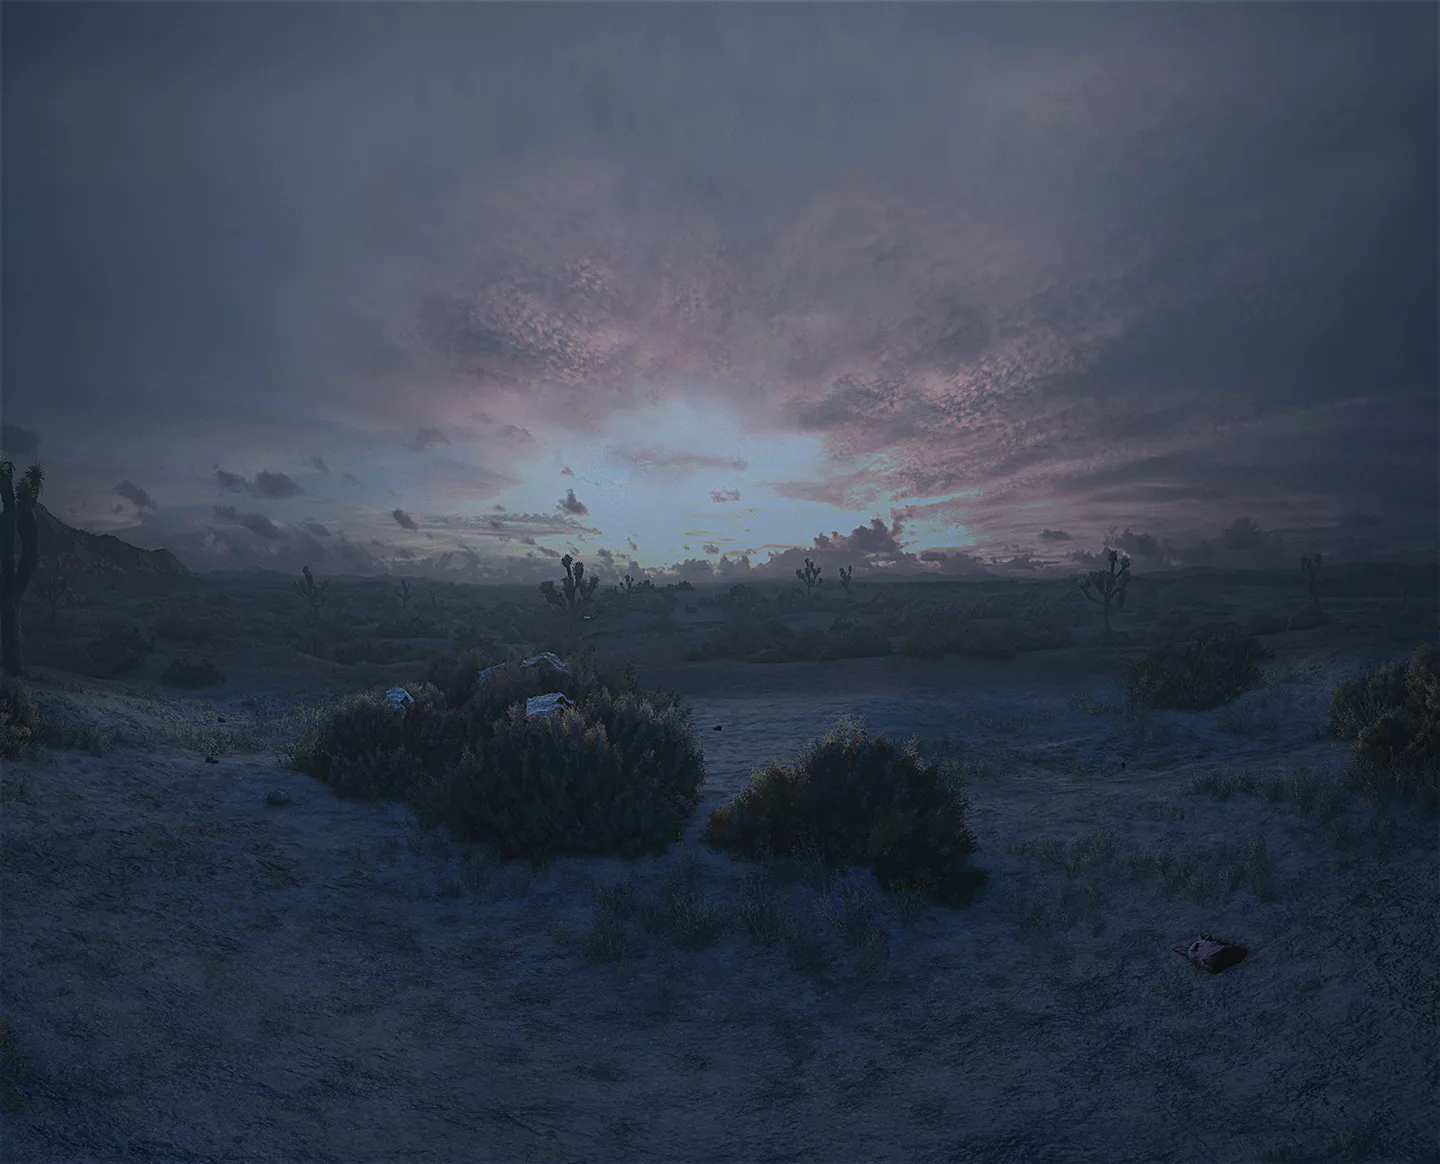
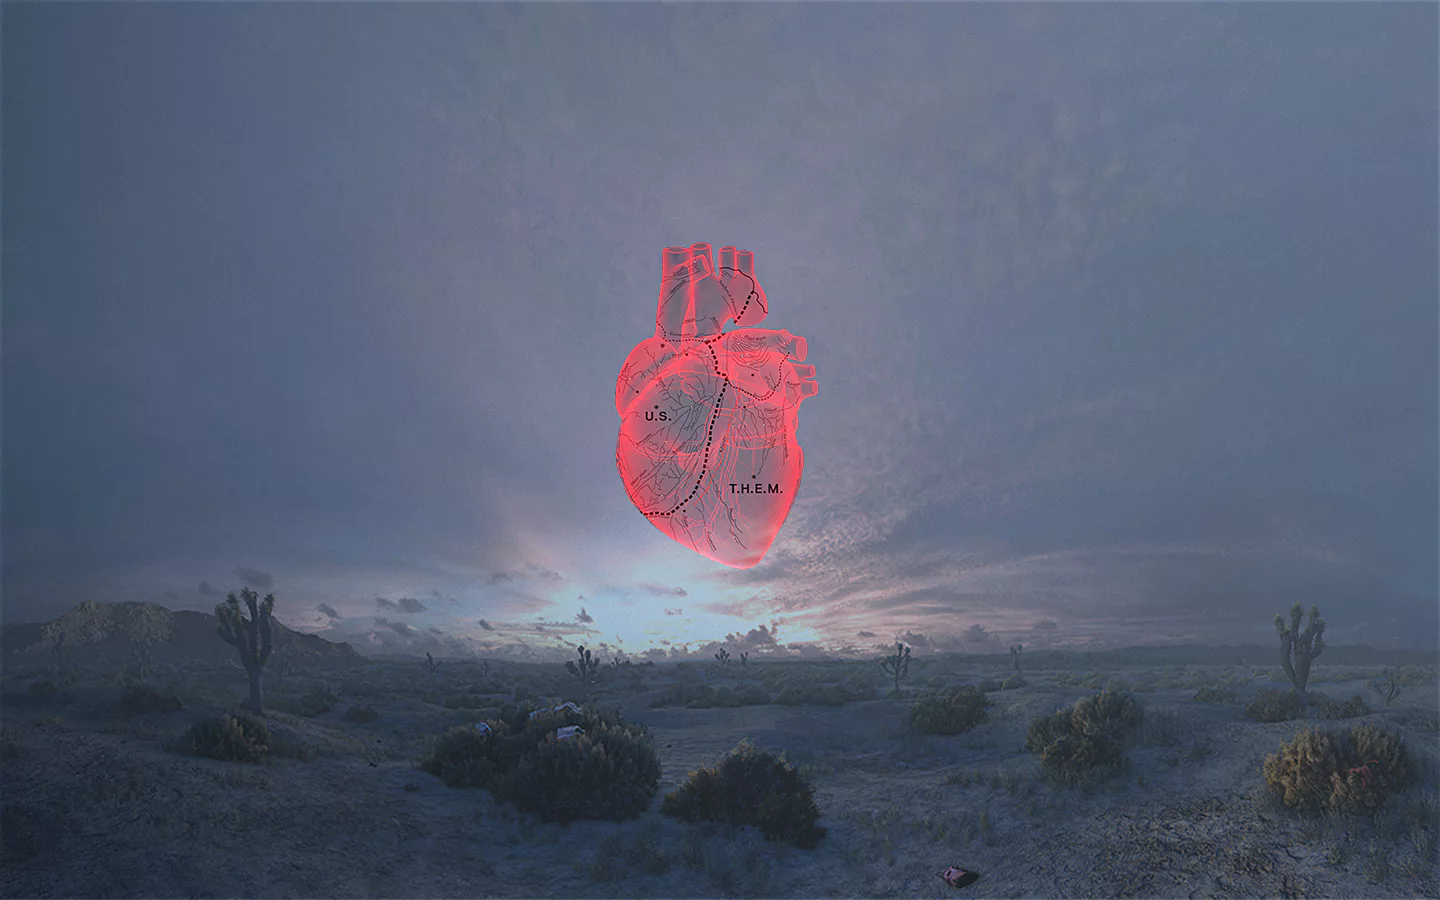
Revamp homepage with new background graphic with heart image

diff --git a/src/pages/index.module.scss b/src/pages/index.module.scss
@@ -1,53 +1,53 @@
 @import '../styles/setup';
 
 .container {
-  padding: 25vw 0;
+  padding: 0 0 50px;
   text-align: center;
 
-  @include breakpoint(large-tablet-up) {
-    padding: 25vh 0 20vh;
-  }
-
-  @include breakpoint(medium-desktop-up) {
-    padding: calc(27vh - 200px) 0 calc(20vh - 10%);
-  }
-
-  @include breakpoint(large-desktop-up) {
-    padding: calc(27vh - 200px) 0 calc(20vh - 5%);
+  @include breakpoint($desktop-nav) {
+    padding-bottom: 0;
   }
 }
 
 .logo {
+  width: 280px;
+
   @include breakpoint(large-mobile-up) {
-    width: 75%;
-    max-width: 750px;
+    width: 360px;
+  }
+
+  @include breakpoint(small-tablet-up) {
+    width: 430px;
+  }
+}
+
+.heart {
+  height: 328px;
+  margin: 15px auto 20px;
+  width: 150px;
+
+  // begin scaling the heart placeholder to match the background
+  @media (min-width: $background-width) {
+    height: (328px/$background-width) * 100vw;
+    margin-bottom: (20px/$background-width) * 100vw;
+    margin-top: (15px/$background-width) * 100vw;
   }
 }
 
 .summary {
   font-family: $semibold;
-  font-size: 4.8vw; // 18px at 375 viewport
-  line-height: 1.5;
-  margin: 1.25em auto;
-
-  @include breakpoint(large-mobile-up) {
-    font-size: 4vw;
-    width: 77vw;
-  }
+  font-size: 18px;
+  line-height: 1.25;
+  margin: 0 auto 35px;
 
   @include breakpoint(small-tablet-up) {
-    font-size: 3vw;
-    width: 58vw;
+    font-size: 20px;
+    width: 540px;
   }
 
-  @include breakpoint(small-desktop-up) {
-    font-size: 2.5vw;
-    width: 65vw;
-  }
-
-  @include breakpoint(large-desktop-up) {
-    font-size: 32px;
-    width: 880px;
+  @include breakpoint(large-tablet-up) {
+    font-size: 24px;
+    width: 640px;
   }
 }
 
@@ -56,32 +56,26 @@
     min-height: 100%;
 
     body {
-      background: 50% no-repeat;
-      background-size: cover;
+      background-position: 50% -70px;
+      background-repeat: no-repeat;
+      background-size: auto;
+      min-height: 900px;
 
-      @include breakpoint(small-desktop-down) {
-        background-position: 50% 75%;
-        background-size: auto;
+      @include breakpoint(large-mobile-up) {
+        background-position-y: -50px;
       }
 
-      @include breakpoint(large-tablet-down) {
-        background-position: 50% 70%;
+      @include breakpoint(small-tablet-up) {
+        background-position-y: -30px;
       }
 
-      @include breakpoint(small-tablet-down) {
-        background-position: 50% 72%;
+      @include breakpoint($desktop-nav) {
+        background-position-y: 0;
       }
 
-      @include breakpoint(large-mobile-down) {
-        background-position: 50% 78%;
-      }
-
-      @include breakpoint(medium-mobile-down) {
-        background-position: 50% 75%;
-      }
-
-      @include breakpoint(small-mobile-down) {
-        background-position: 50% 70%;
+      @media (min-width: $background-width) {
+        background-position-y: 45%; // center of heart image
+        background-size: 100% auto;
       }
     }
 

diff --git a/src/components/footer.module.scss b/src/components/footer.module.scss
@@ -2,45 +2,53 @@
 
 .footer {
   font-size: 13px;
+  justify-content: space-between;
   line-height: 1.5;
-  padding: 20px 20px 0;
+  padding: 20px;
 
-  @include breakpoint(small-desktop-down) {
+  @include breakpoint(large-tablet-down) {
     text-align: center;
   }
 
-  @include breakpoint(large-tablet-up) {
-    position: relative;
+  @include breakpoint(small-desktop-up) {
+    display: flex;
+    flex-wrap: wrap;
+  }
+
+  @include breakpoint($mobile-nav) {
+    // cover edge of background when footer becomes taller on smaller screens
+    background: linear-gradient(rgba(#1B2634, 0), #1B2634 75px, #1B2634 125px, rgba(#1B2634, 0));
   }
 
   @include breakpoint($desktop-nav) {
-    padding: 60px 3vw 50px;
+    padding: 30px 3vw 20px;
   }
 }
 
-.text-link {
-  padding: 0.5ch;
+.copyright {
+  @include breakpoint(small-desktop-up) {
+    width: 60%;
+  }
+}
 
-  @include breakpoint(medium-desktop-up) {
-    margin: 0 0.25ch;
+.links {
+  margin-top: 0;
 
-    &:first-of-type {
-      margin-left: 0.5ch;
+  @include breakpoint(small-desktop-up) {
+    text-align: right;
+    width: 40%;
+  }
+
+  a {
+    padding: 0.5ch;
+
+    @include breakpoint(medium-desktop-up) {
+      margin: 0 0.25ch;
+
+      &:first-of-type {
+        margin-left: 0.5ch;
+      }
     }
-  }
-}
-
-.phone {
-  font-family: $semibold;
-  font-size: 16px;
-  letter-spacing: 1.6px;
-  margin: 0;
-  text-transform: uppercase;
-
-  @include breakpoint(medium-desktop-up) {
-    position: absolute;
-    right: 3vw;
-    top: 58px;
   }
 }
 
@@ -51,8 +59,9 @@
   margin: 0;
   padding: 0;
   list-style: none;
+  width: 100%;
 
-  @include breakpoint(small-desktop-down) {
+  @include breakpoint(large-tablet-down) {
     justify-content: center;
   }
 

diff --git a/src/components/footer.js b/src/components/footer.js
@@ -8,23 +8,16 @@ import ecLogo from '../images/emerson-collective-logo.png'
 
 const Footer = () => (
   <footer styleName="footer">
-    <p>
+    <p styleName="copyright">
       Produced and Financed by Legendary Entertainment and Emerson Collective.
-
-      <Link to="/terms" styleName="text-link">
-        Terms & Conditions
-      </Link>
-
-      <Link to="/privacy" styleName="text-link">
-        Privacy Policy
-      </Link>
-
-      <Link to="/press" styleName="text-link">
-        Press
-      </Link>
     </p>
 
-    <p styleName="phone">(888) 888-8888</p>
+    <p styleName="links">
+      <Link to="/terms">Terms & Conditions</Link>
+      <Link to="/privacy">Privacy Policy</Link>
+      <Link to="/press">Press</Link>
+      <Link to="/contact">Contact</Link>
+    </p>
 
     <ul styleName="logos">
       <li><img src={lpLogo} alt="Legendary Entertainment" width="107" /></li>

diff --git a/src/pages/index.js b/src/pages/index.js
@@ -16,6 +16,8 @@ const IndexPage = () => (
     <section styleName="container">
       <img src={logo} alt="Alejandro G. Iñárritu’s Carne y Arena" width="750" styleName="logo" />
 
+      <div styleName="heart" />
+
       <p styleName="summary">
         This groundbreaking and immersive virtual reality exhibition
         is unlike anything you’ve experienced before.

diff --git a/src/layouts/index.scss b/src/layouts/index.scss
@@ -41,12 +41,12 @@ main {
   display: block;
   padding: 80px 20px 0;
 
-  @include breakpoint(landscape-large-tablet-down) {
-    padding-top: 20px;
-  }
-
   @include breakpoint($desktop-nav) {
-    padding-top: 200px;
+    padding-top: 150px;
+
+    html.home & {
+      padding-top: 110px;
+    }
   }
 
   p {

diff --git a/src/components/header.module.scss b/src/components/header.module.scss
@@ -11,7 +11,7 @@
   z-index: 500;
 
   @include breakpoint($desktop-nav) {
-    height: 150px;
+    height: 110px;
     padding: 0;
   }
 }

diff --git a/src/styles/variables/_other.scss b/src/styles/variables/_other.scss
@@ -1,5 +1,5 @@
 // dimensions
-$max-breakpoint: 1280;
+$background-width: 1440px;
 
 // fonts
 $regular: 'gilroy-regular', sans-serif;
